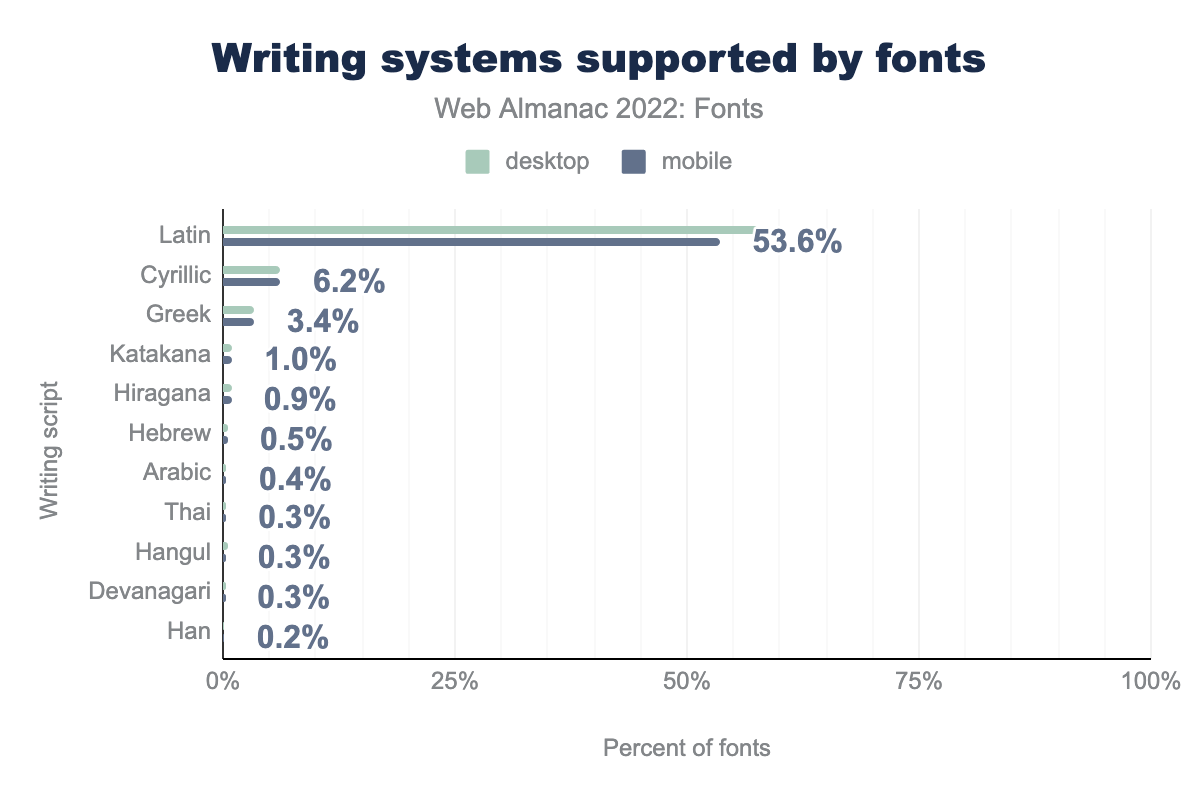
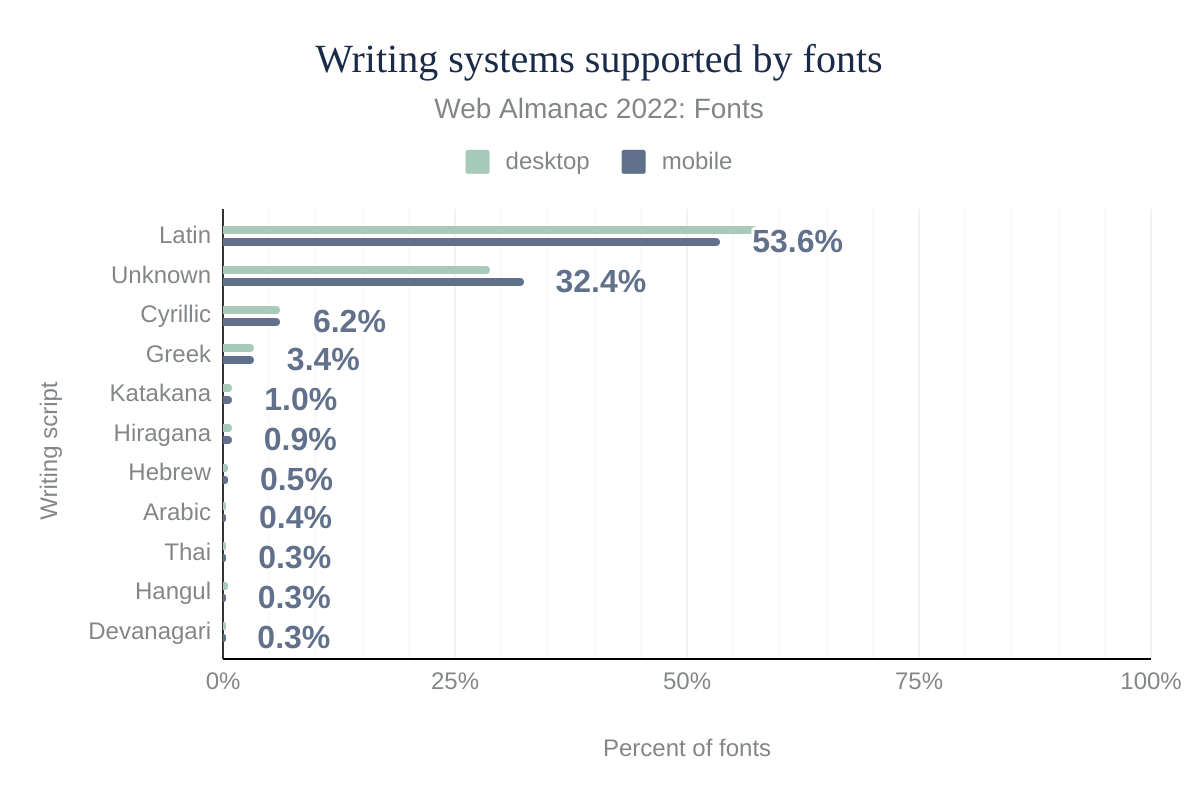
Clarify there is a minimum threshold for counting writing system support and likely causes.

diff --git a/src/content/en/2022/fonts.md b/src/content/en/2022/fonts.md
@@ -642,7 +642,7 @@ To understand what kind of fonts are being made and used, we thought it would be
 {{ figure_markup(
   image="writing-systems-supported-by-fonts.png",
   caption="Writing systems supported by fonts.",
-  description="Bar chart showing Latin is used on 57.6% of desktop pages and 53.6% of mobile pages, Cyrillic on 6.1% and 6.2% respectively, Greek on 3.4% and 3.4%, Katakana on 0.9% and 1.0%, Hiragana on 0.9% and 0.9%, Hebrew on 0.5% and 0.5%, Arabic on 0.3% and 0.4%, Thai on 0.2% and 0.3%, Hangul on 0.5% and 0.3%, Devanagari on 0.2% and 0.3%, and finally Han is on 0.2% of desktop and mobile pages.",
+  description="Bar chart showing Latin is used on 57.6% of desktop pages and 53.6% of mobile pages, Unknown on 28.7% of desktop pages and 32.4% of mobile pages, Cyrillic on 6.1% and 6.2% respectively, Greek on 3.4% and 3.4%, Katakana on 0.9% and 1.0%, Hiragana on 0.9% and 0.9%, Hebrew on 0.5% and 0.5%, Arabic on 0.3% and 0.4%, Thai on 0.2% and 0.3%, Hangul on 0.5% and 0.3%, Devanagari on 0.2% and 0.3%, and finally Han is on 0.2% of desktop and mobile pages.",
   chart_url="https://docs.google.com/spreadsheets/d/e/2PACX-1vQF6OH_2-0apcFzjE-iHSQNuZqp9DtM7udIeOzPSOSMM-Pf6KdTnRwAclX9QPZF1vNNgu6acZvqoN5b/pubchart?oid=45355249&format=interactive",
   sheets_gid="841363278",
   sql_file="font_writing_scripts.sql",
@@ -651,7 +651,7 @@ To understand what kind of fonts are being made and used, we thought it would be
   )
 }}
 
-Not surprisingly, the Latin system is in the lead with a whopping 53.6% of all fonts supporting (a significant) subset of the [Latin writing system](https://en.wikipedia.org/wiki/List_of_languages_by_writing_system#Latin_script). This includes a lot of languages used in the western world, like English, French, and German. However, it also covers languages in Asia, such as Vietnamese and Tagalog. The number two and three spots are taken by Cyrillic and Greek. Again, this is not a surprise, they are commonly used and a reasonably small amount of work to add to a font due to their limited number of extra glyphs that need to be added. Katakana and Hiragana (Japanese) are at 1% and 0.9% respectively—a combined 1.9%.
+Not surprisingly, the Latin system is in the lead with a whopping 53.6% of all fonts supporting (a significant) subset of the [Latin writing system](https://en.wikipedia.org/wiki/List_of_languages_by_writing_system#Latin_script). This includes a lot of languages used in the western world, like English, French, and German. However, it also covers languages in Asia, such as Vietnamese and Tagalog. The number two spot is "taken" by fonts that failed to meet the minimum threshold of a writing system. This includes fonts that, for example, only support a small number of characters or ones that are heavily subsetted. The number three and four spots are taken by Cyrillic and Greek. Again, this is not a surprise, they are commonly used and a reasonably small amount of work to add to a font due to their limited number of extra glyphs that need to be added. Katakana and Hiragana (Japanese) are at 1% and 0.9% respectively—a combined 1.9%.
 
 Sadly, other writing systems are much less prevalent. For example, Han (Chinese) is the <a hreflang="en" href="https://www.worldatlas.com/articles/the-world-s-most-popular-writing-scripts.html">2nd most used writing system in the world</a> (after Latin), but only supported by 0.2% of web fonts. Arabic is the third most used writing system, but again, only supported by 0.4% of web fonts. The reason that some of these <a hreflang="en" href="https://www.w3.org/TR/PFE-evaluation/#fail-large">writing systems are not used as web fonts</a> is that they are very large due to the sheer number of glyphs they have to support, and the difficulty in subsetting them correctly.
 
